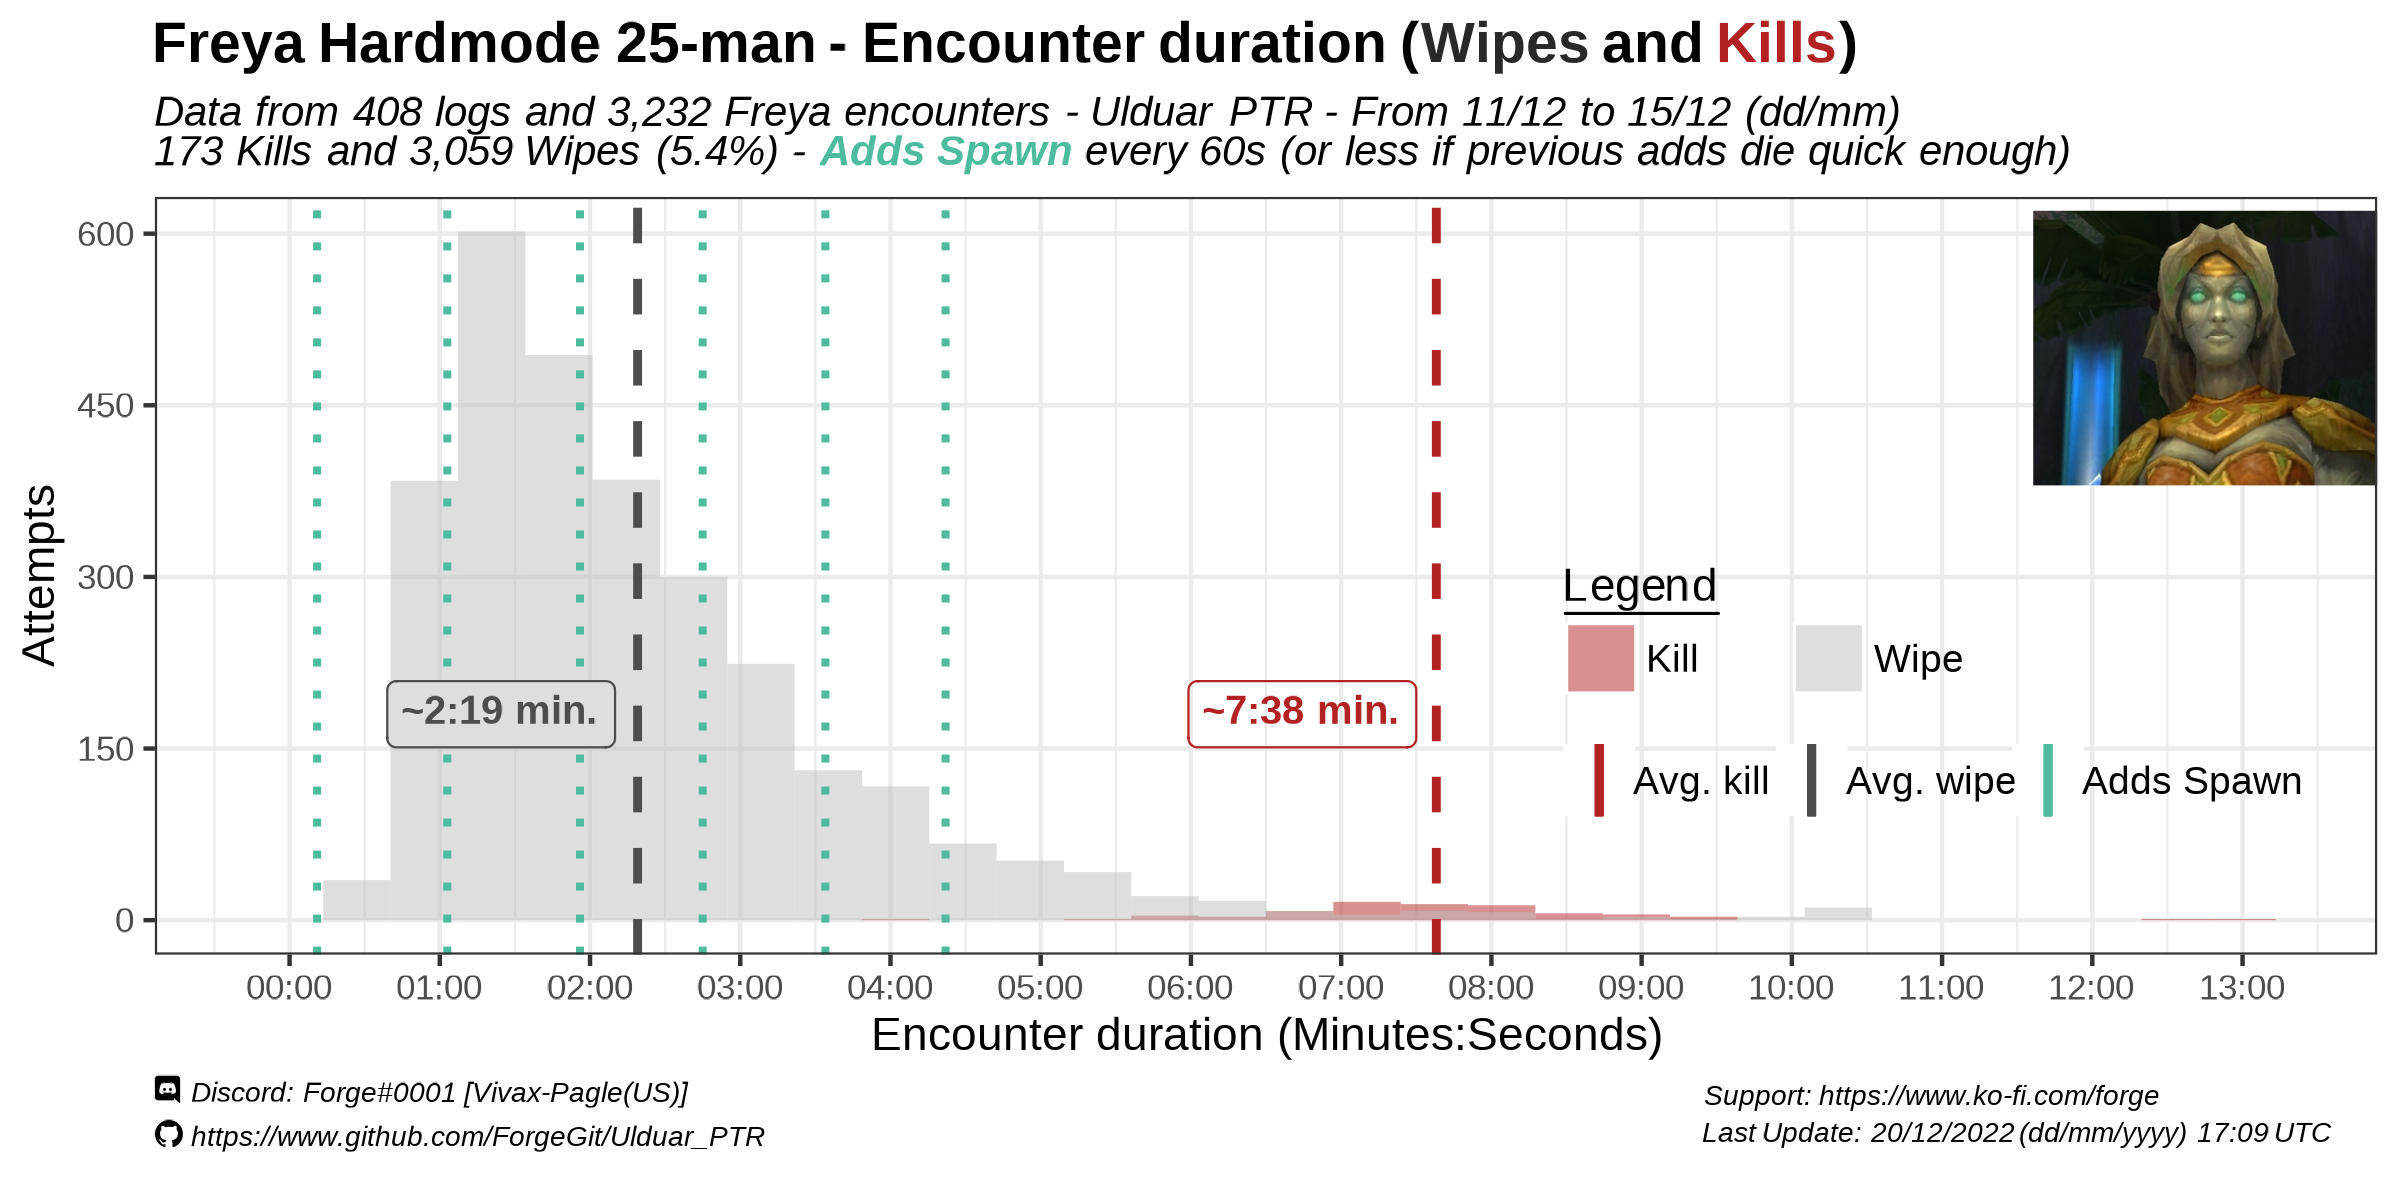
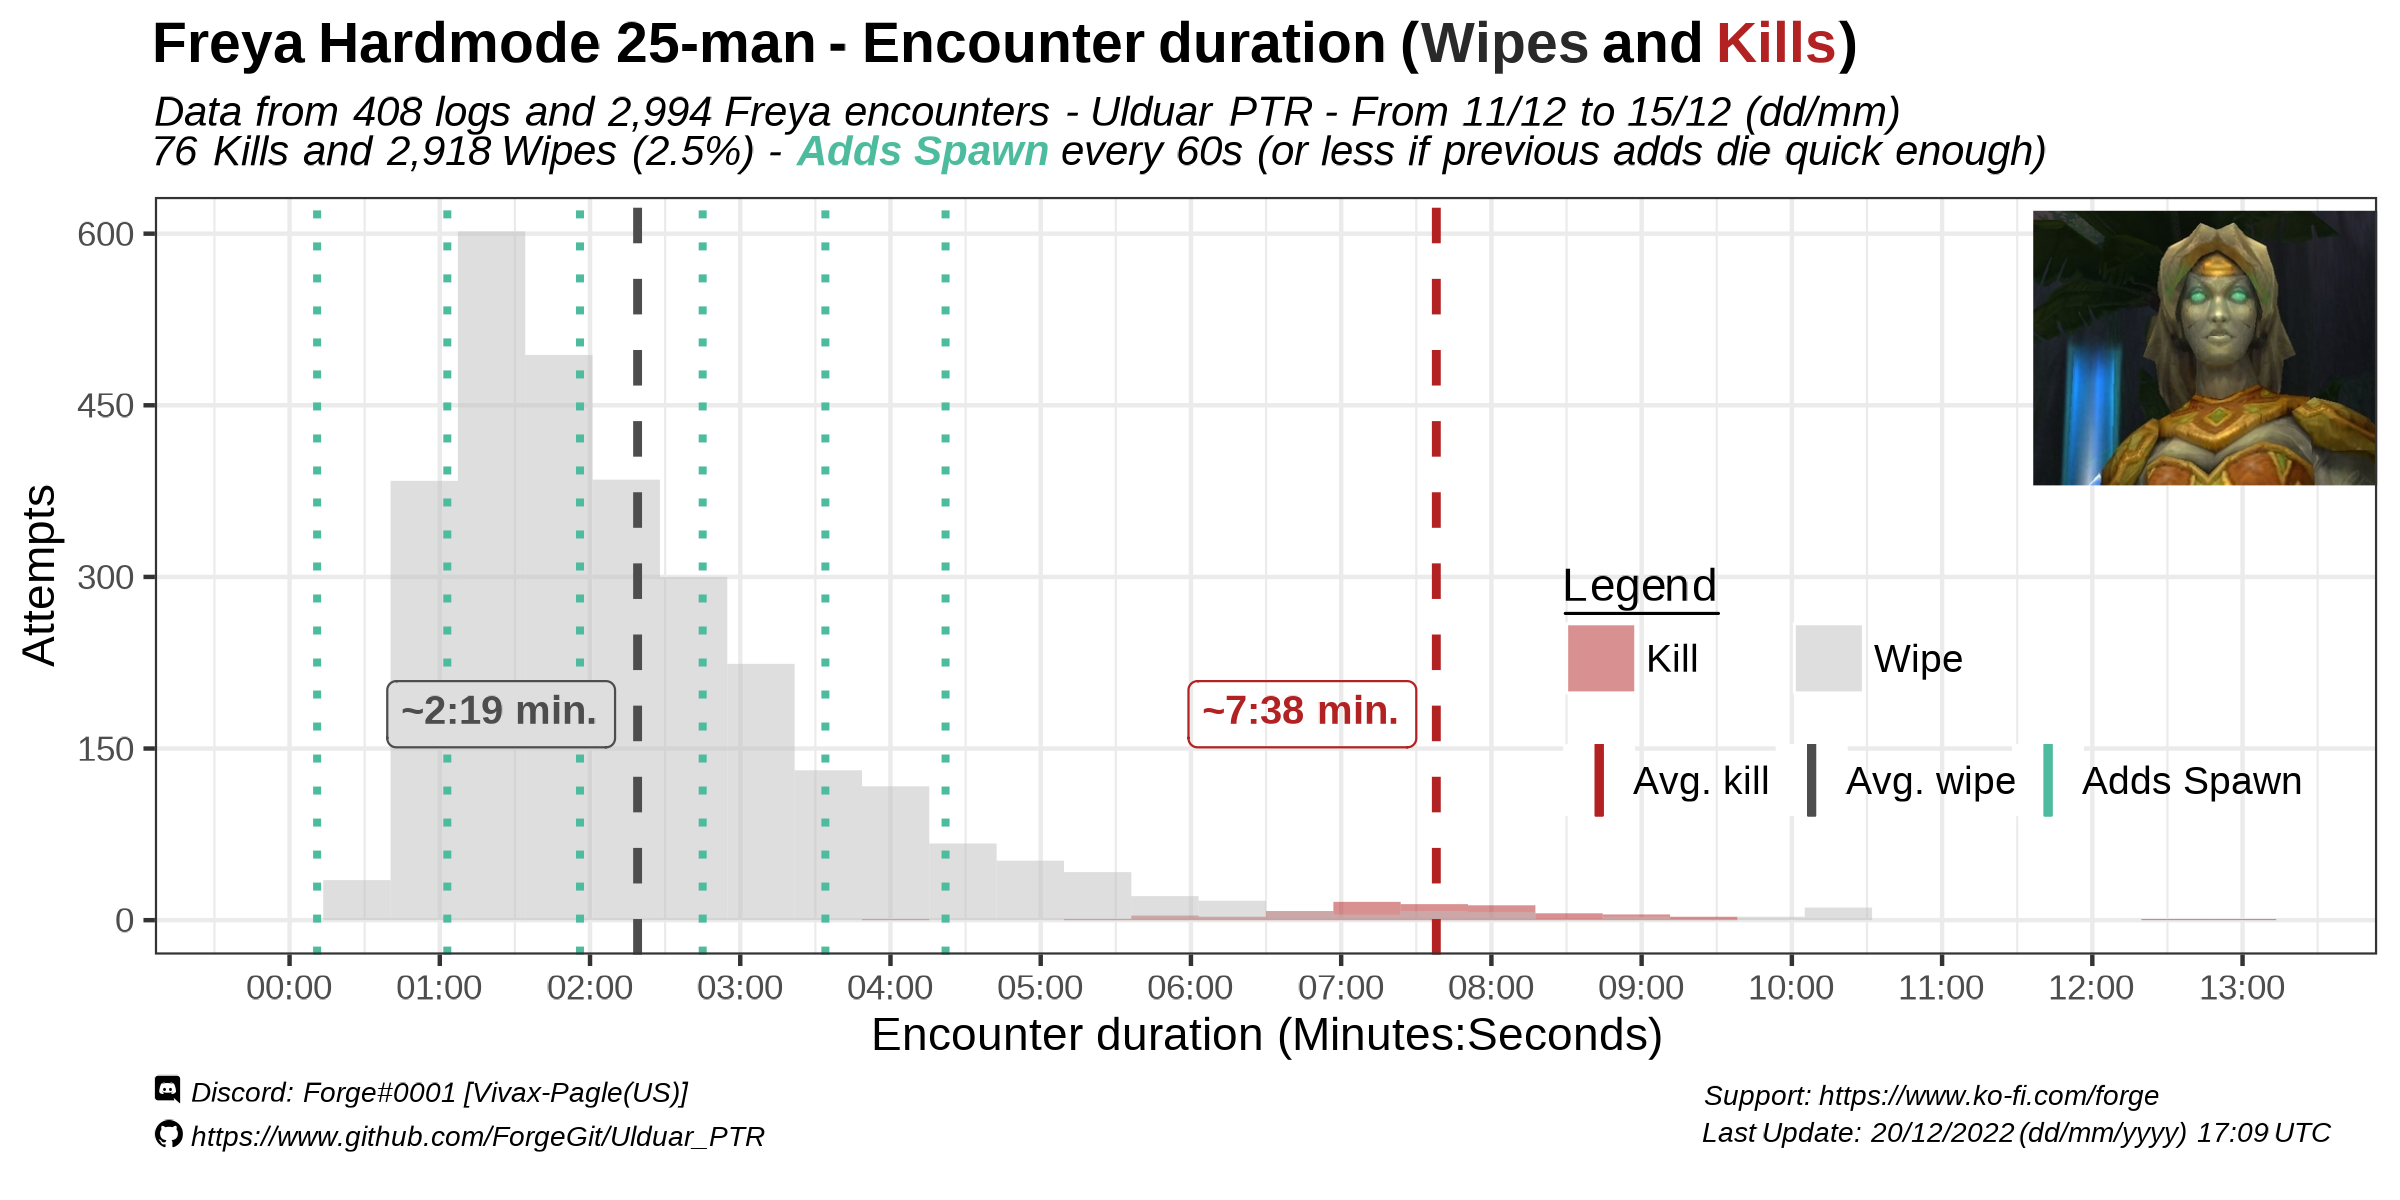
Table and plots update

Changed region(s): [[0.0625, 0.0925, 0.875, 0.1542]]

diff --git a/readme.md b/readme.md
@@ -16,13 +16,24 @@ Based on the bias the data has (coming from PTR) it would be bold to assume the 
 
 Most of the wipes happen close to the dead of the 2nd add (right before or right after). Likely related to tanks (not) surviving Steelbreaker Fusion Punch or increased damage of Phase 3 in general.
 
- <img src="img/Iron Council.png" />
+  <img src="img/Iron Council.png" />
+ 
+  <img src="img/Council Table 1.png" />
+  
+  <img src="img/Council Table 2.png" />
 
 ### Freya HM
+
 Wipes happen mostly early in the fight, during the first 3 sets of adds spawning.
- <img src="img/Freya HM plot1.png" />
+
+  <img src="img/Freya HM plot1.png"/>
+  
+  <img src="img/Freya Table 1.png" />
+  
+  <img src="img/Freya Table 2.png" />
 
 ### Hodir 
+
 Lots of wipes right after the 2 minutes mark (required for it to be "hardmode"). Likely intentional, but very few were able to make it.
 
  <img src="img/Hodir plot1.png" />
@@ -31,6 +42,10 @@ Lots of wipes right after the 2 minutes mark (required for it to be "hardmode").
 ### Mimiron HM 
 
  <img src="img/mimiron_plot.png" />
+  
+  <img src="img/Mimiron Table 1.png" />
+  
+  <img src="img/Mimiron Table 2.png" />
 
 ### General Vezax HM 
 
